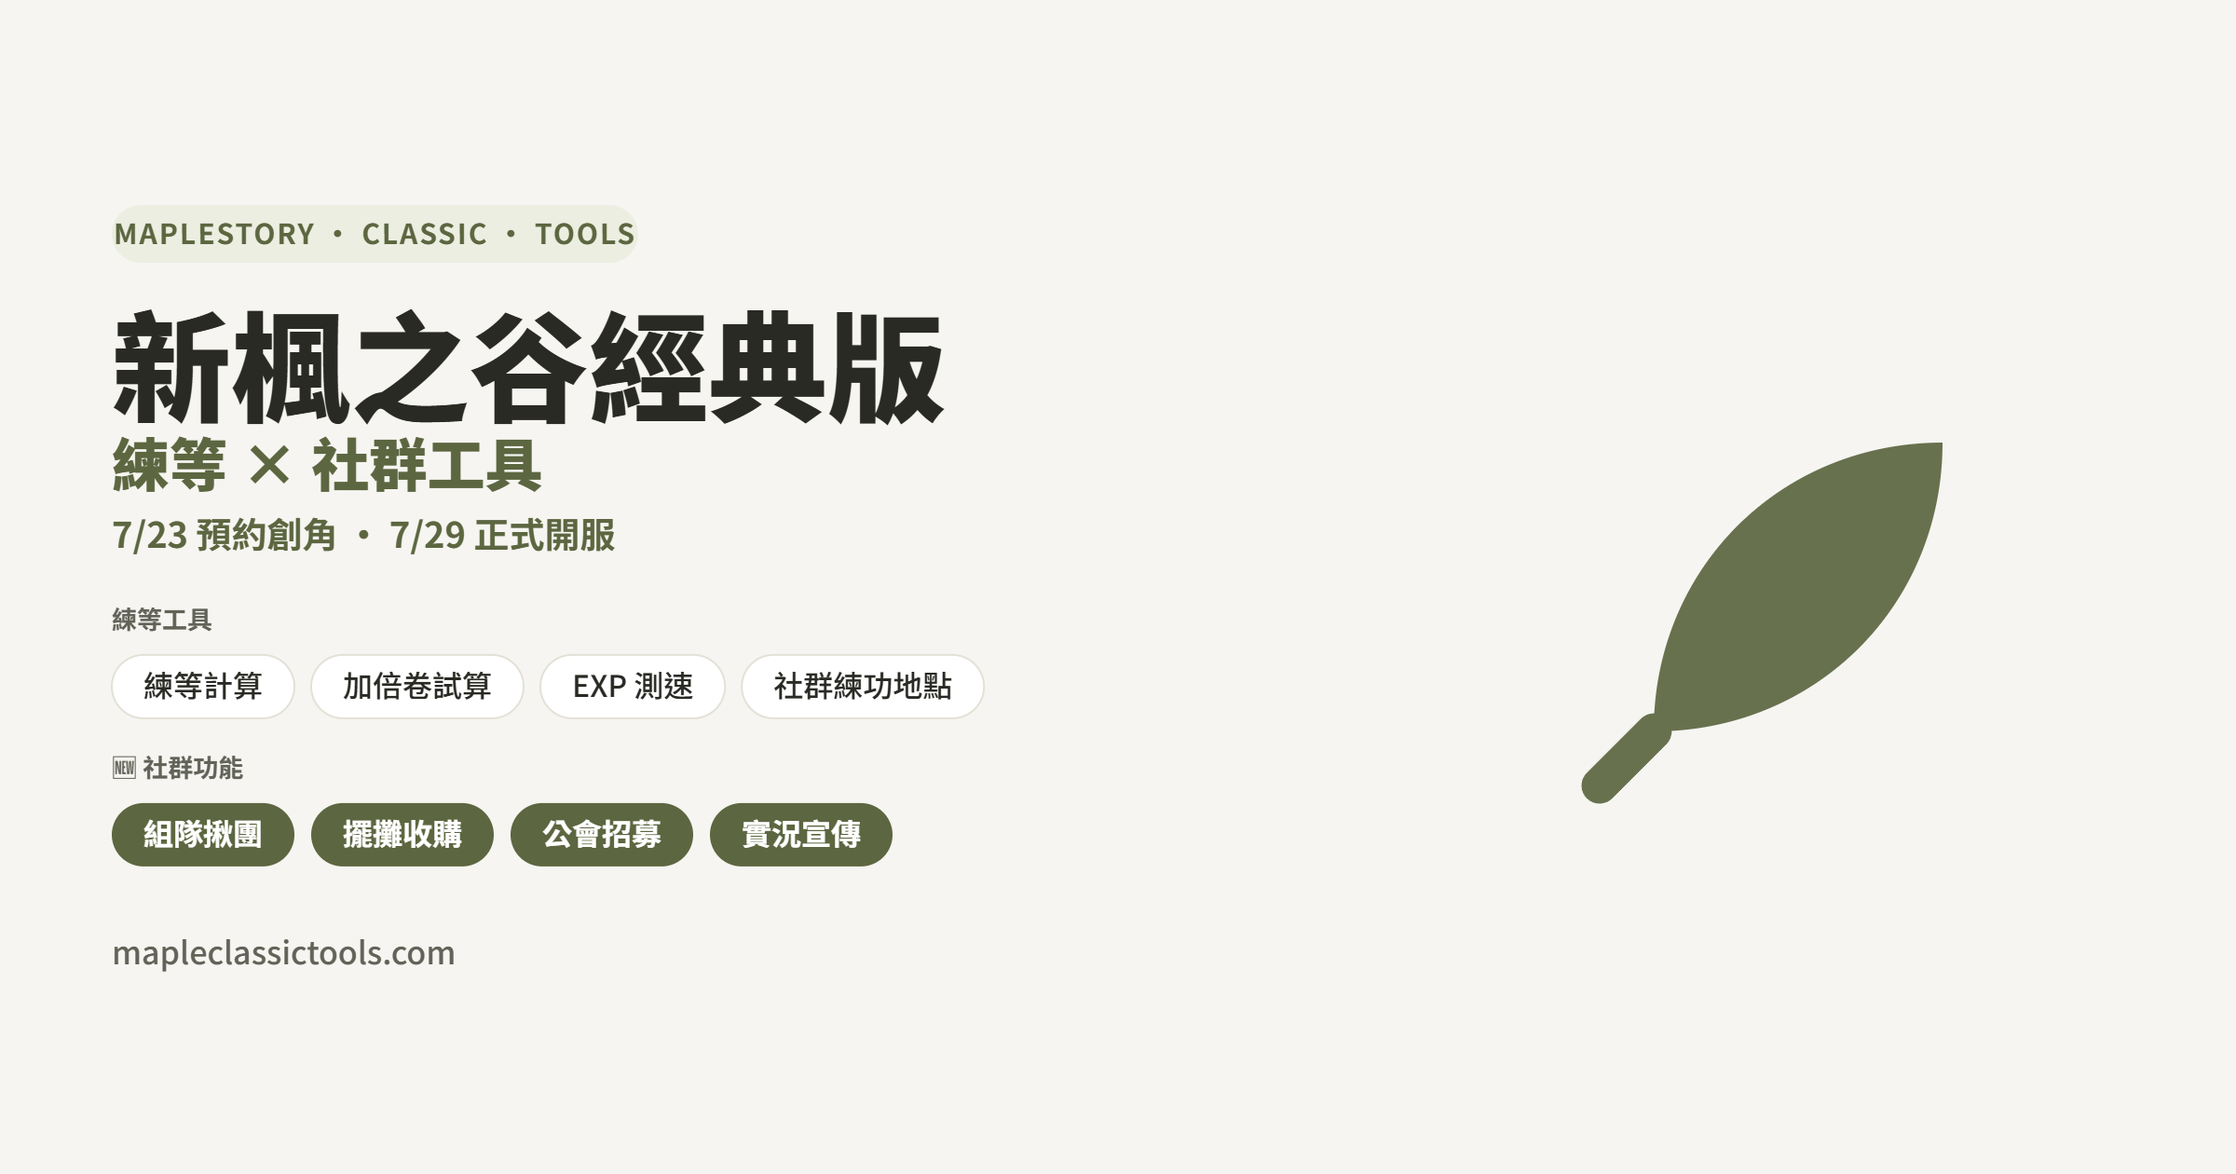
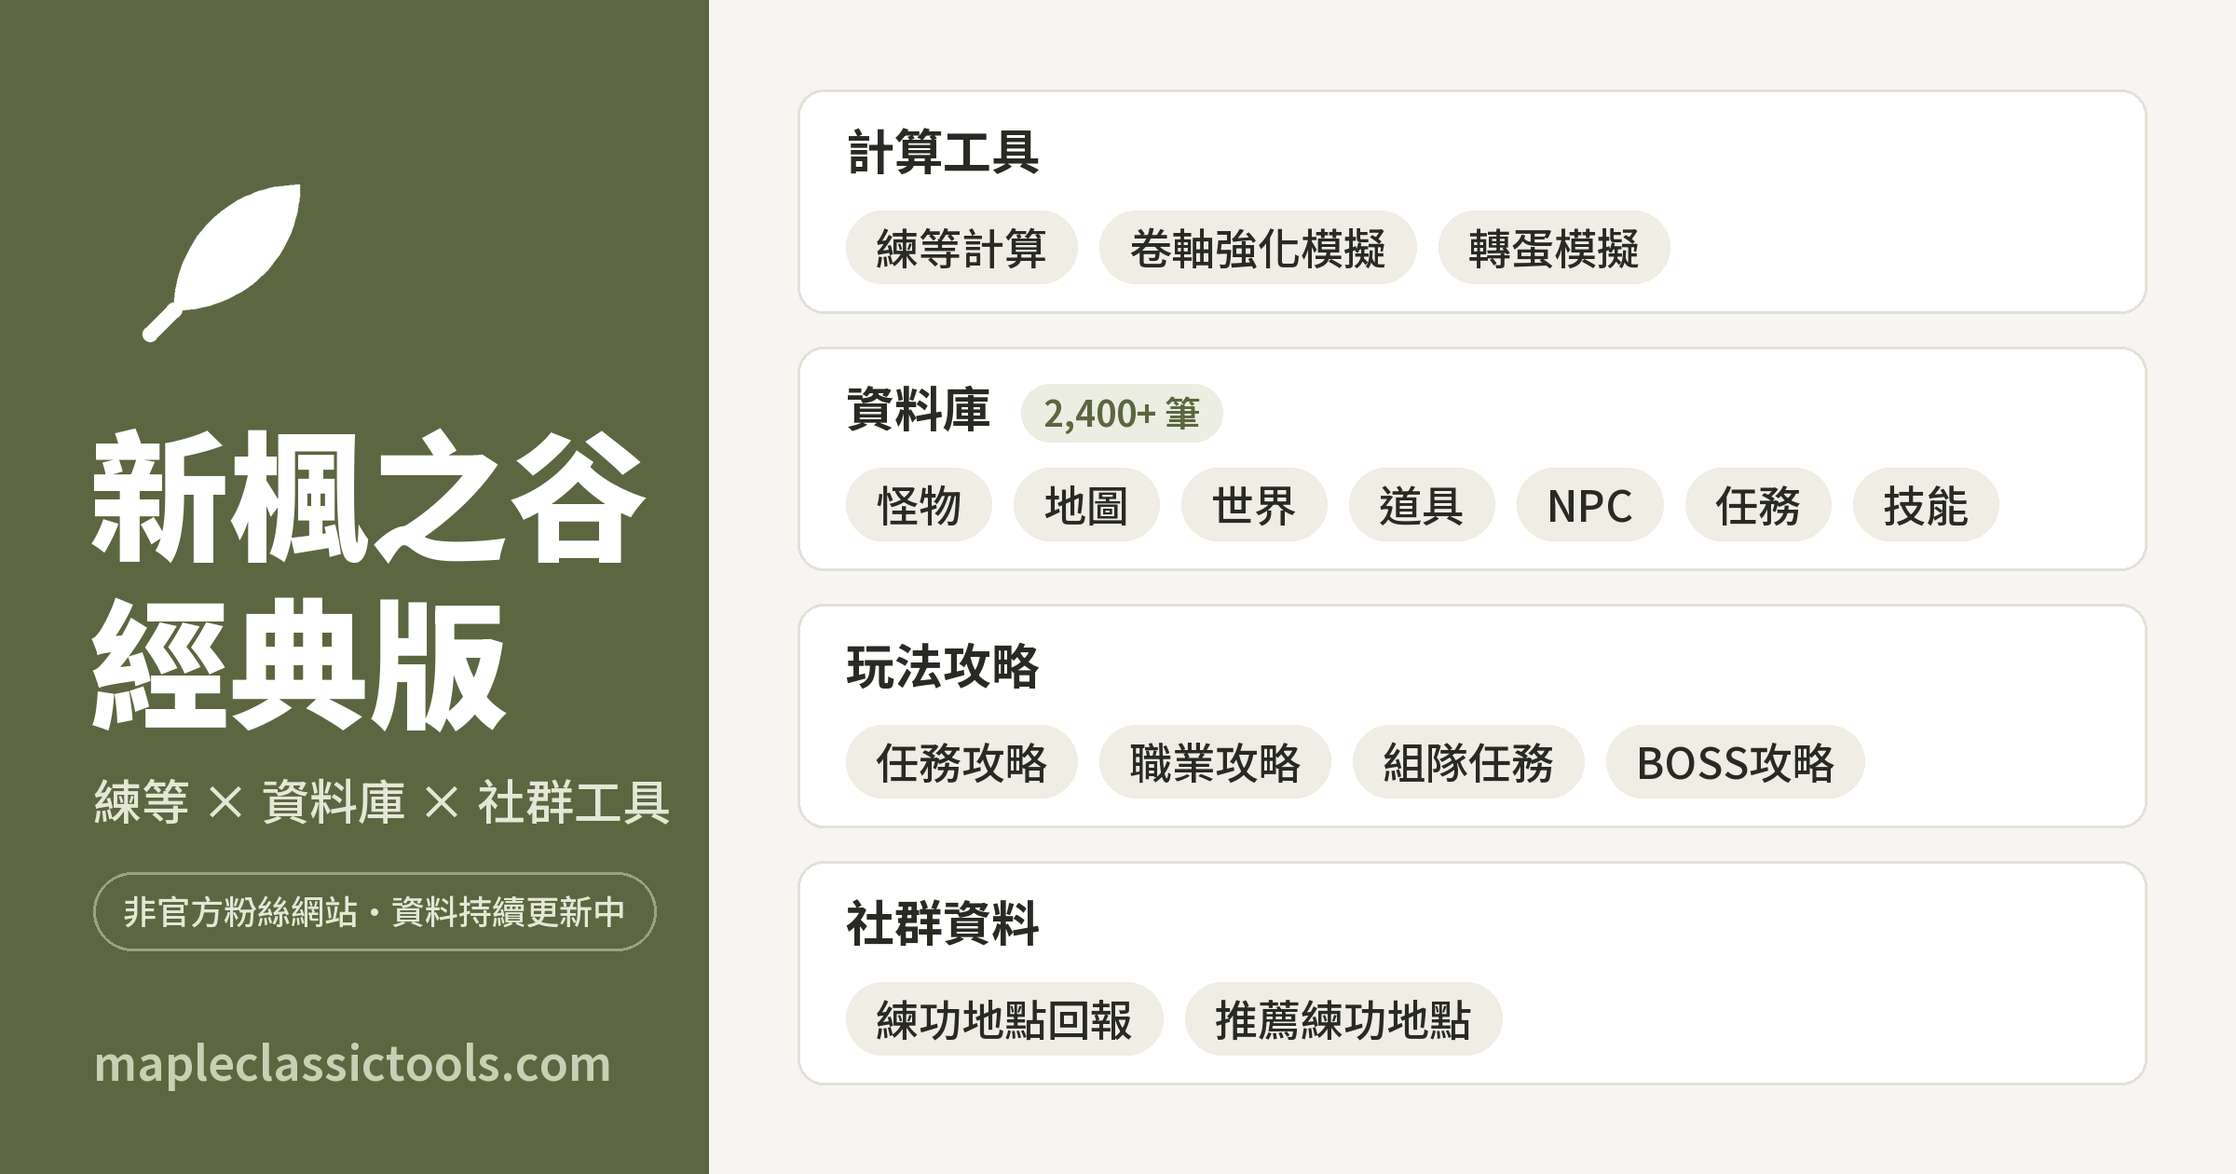
docs: OG 預覽圖全面重製，對齊改版後的網站樣貌
舊圖還在宣傳已移除的功能（EXP 測速、組隊揪團、擺攤收購、公會招募、實況
宣傳），日期也停在開服前的 7/23 預約創角。

新圖做成「現在網站的縮影」：左側橄欖綠側欄（logo＋站名＋網域）呼應改版後
的側邊欄版面，右側四張卡片對應側邊欄真實的四大分類，晶片內容與站上子分頁
一字不差；資料庫掛「2,400+ 筆」徽章（實算 2,437 筆）。過期的開服日期換成
與站上頂欄同一句的「非官方粉絲網站・資料持續更新中」，不會再過期。色票與
字型直接取自 style.css 與站上同一套 Noto Sans TC。

隱藏中的攻擊力計算不列。全站 12 個頁面的 og:image / twitter:image 版本號
?v=8 → ?v=9，讓社群平台重抓快取。產生腳本為 Pillow 繪製，之後要再改很快。

diff --git a/index.html b/index.html
@@ -23,7 +23,7 @@
 <meta property="og:site_name" content="新楓之谷經典版 練等 × 社群工具">
 <meta property="og:locale" content="zh_TW">
 <meta property="og:url" content="https://mapleclassictools.com/">
-<meta property="og:image" content="https://mapleclassictools.com/og-image.png?v=8">
+<meta property="og:image" content="https://mapleclassictools.com/og-image.png?v=9">
 <meta property="og:image:width" content="2400">
 <meta property="og:image:height" content="1260">
 <meta property="og:title" content="新楓之谷經典版｜練等 × 社群工具">
@@ -31,7 +31,7 @@
 <meta name="twitter:card" content="summary_large_image">
 <meta name="twitter:title" content="新楓之谷經典版｜練等 × 社群工具">
 <meta name="twitter:description" content="經典版已於 2026/07/29 正式上線！輸入目前等級，馬上知道升級還差多少經驗、大概要練多久。附加倍卷試算、計時器、社群練功地點資料庫。">
-<meta name="twitter:image" content="https://mapleclassictools.com/og-image.png?v=8">
+<meta name="twitter:image" content="https://mapleclassictools.com/og-image.png?v=9">
 <meta name="author" content="xyzzxc00">
 <meta name="keywords" content="新楓之谷經典版,練等計算機,楓之谷經典版,MapleStory Classic,經驗值計算,升級時間,加倍卷,練功地點,組隊任務,台版楓之谷經典服">
 <link rel="canonical" href="https://mapleclassictools.com/">

diff --git a/guides/job-selection-guide/index.html b/guides/job-selection-guide/index.html
@@ -22,7 +22,7 @@
 <meta property="og:site_name" content="新楓之谷經典版 練等 × 社群工具">
 <meta property="og:locale" content="zh_TW">
 <meta property="og:url" content="https://mapleclassictools.com/guides/job-selection-guide/">
-<meta property="og:image" content="https://mapleclassictools.com/og-image.png?v=8">
+<meta property="og:image" content="https://mapleclassictools.com/og-image.png?v=9">
 <meta property="og:image:width" content="2400">
 <meta property="og:image:height" content="1260">
 <meta property="og:title" content="新楓之谷經典版選職業指南：五大職業怎麼選？">
@@ -30,7 +30,7 @@
 <meta name="twitter:card" content="summary_large_image">
 <meta name="twitter:title" content="新楓之谷經典版選職業指南：五大職業怎麼選？">
 <meta name="twitter:description" content="從戰鬥距離、前期容錯率、上手難度、團隊定位幫你抓方向，附五大職業比較表與常見情境對照。">
-<meta name="twitter:image" content="https://mapleclassictools.com/og-image.png?v=8">
+<meta name="twitter:image" content="https://mapleclassictools.com/og-image.png?v=9">
 <meta name="author" content="xyzzxc00">
 <meta name="keywords" content="新楓之谷經典版,選職業,職業推薦,劍士系,法師系,弓箭手系,盜賊系,海盜系,新手攻略,MapleStory Classic">
 <link rel="canonical" href="https://mapleclassictools.com/guides/job-selection-guide/">

diff --git a/guides/coupon-stacking-guide/index.html b/guides/coupon-stacking-guide/index.html
@@ -22,7 +22,7 @@
 <meta property="og:site_name" content="新楓之谷經典版 練等 × 社群工具">
 <meta property="og:locale" content="zh_TW">
 <meta property="og:url" content="https://mapleclassictools.com/guides/coupon-stacking-guide/">
-<meta property="og:image" content="https://mapleclassictools.com/og-image.png?v=8">
+<meta property="og:image" content="https://mapleclassictools.com/og-image.png?v=9">
 <meta property="og:image:width" content="2400">
 <meta property="og:image:height" content="1260">
 <meta property="og:title" content="加倍卷怎麼算最划算？新楓之谷經典版加倍卷解析">
@@ -30,7 +30,7 @@
 <meta name="twitter:card" content="summary_large_image">
 <meta name="twitter:title" content="加倍卷怎麼算最划算？新楓之谷經典版加倍卷解析">
 <meta name="twitter:description" content="多張同款卷是不是能疊更高倍率？加倍卷跟其他加成一起用該填多少進計算機？常見誤解跟計算邏輯一次講清楚。">
-<meta name="twitter:image" content="https://mapleclassictools.com/og-image.png?v=8">
+<meta name="twitter:image" content="https://mapleclassictools.com/og-image.png?v=9">
 <meta name="author" content="xyzzxc00">
 <meta name="keywords" content="新楓之谷經典版,加倍卷,經驗加成,倍率計算,練等計算機,MapleStory Classic">
 <link rel="canonical" href="https://mapleclassictools.com/guides/coupon-stacking-guide/">

diff --git a/guides/launch-leveling-guide/index.html b/guides/launch-leveling-guide/index.html
@@ -22,7 +22,7 @@
 <meta property="og:site_name" content="新楓之谷經典版 練等 × 社群工具">
 <meta property="og:locale" content="zh_TW">
 <meta property="og:url" content="https://mapleclassictools.com/guides/launch-leveling-guide/">
-<meta property="og:image" content="https://mapleclassictools.com/og-image.png?v=8">
+<meta property="og:image" content="https://mapleclassictools.com/og-image.png?v=9">
 <meta property="og:image:width" content="2400">
 <meta property="og:image:height" content="1260">
 <meta property="og:title" content="開服第一天怎麼練？新楓之谷經典版 Lv.1~30 練功路線">
@@ -30,7 +30,7 @@
 <meta name="twitter:card" content="summary_large_image">
 <meta name="twitter:title" content="開服第一天怎麼練？新楓之谷經典版 Lv.1~30 練功路線">
 <meta name="twitter:description" content="楓之島別急著出、一轉時機、Lv.10~30 經典練功點，加上開服日最重要的人潮應對思路。">
-<meta name="twitter:image" content="https://mapleclassictools.com/og-image.png?v=8">
+<meta name="twitter:image" content="https://mapleclassictools.com/og-image.png?v=9">
 <meta name="author" content="xyzzxc00">
 <meta name="keywords" content="新楓之谷經典版,開服攻略,練功路線,Lv.1~30,新手攻略,練等,楓之島,MapleStory Classic">
 <link rel="canonical" href="https://mapleclassictools.com/guides/launch-leveling-guide/">

diff --git a/guides/job-advancement-guide/index.html b/guides/job-advancement-guide/index.html
@@ -22,7 +22,7 @@
 <meta property="og:site_name" content="新楓之谷經典版 練等 × 社群工具">
 <meta property="og:locale" content="zh_TW">
 <meta property="og:url" content="https://mapleclassictools.com/guides/job-advancement-guide/">
-<meta property="og:image" content="https://mapleclassictools.com/og-image.png?v=8">
+<meta property="og:image" content="https://mapleclassictools.com/og-image.png?v=9">
 <meta property="og:image:width" content="2400">
 <meta property="og:image:height" content="1260">
 <meta property="og:title" content="新楓之谷經典版完整轉職路線攻略：一轉~四轉怎麼轉職">
@@ -30,7 +30,7 @@
 <meta name="twitter:card" content="summary_large_image">
 <meta name="twitter:title" content="新楓之谷經典版完整轉職路線攻略：一轉~四轉怎麼轉職">
 <meta name="twitter:description" content="五大職業一轉到四轉的完整任務流程：等級需求、NPC、地點、任務步驟一次整理。">
-<meta name="twitter:image" content="https://mapleclassictools.com/og-image.png?v=8">
+<meta name="twitter:image" content="https://mapleclassictools.com/og-image.png?v=9">
 <meta name="author" content="xyzzxc00">
 <meta name="keywords" content="新楓之谷經典版,轉職,一轉,二轉,三轉,四轉,轉職任務,pre-Big Bang,MapleStory Classic">
 <link rel="canonical" href="https://mapleclassictools.com/guides/job-advancement-guide/">

diff --git a/guides/scroll-expected-value-guide/index.html b/guides/scroll-expected-value-guide/index.html
@@ -22,7 +22,7 @@
 <meta property="og:site_name" content="新楓之谷經典版 練等 × 社群工具">
 <meta property="og:locale" content="zh_TW">
 <meta property="og:url" content="https://mapleclassictools.com/guides/scroll-expected-value-guide/">
-<meta property="og:image" content="https://mapleclassictools.com/og-image.png?v=8">
+<meta property="og:image" content="https://mapleclassictools.com/og-image.png?v=9">
 <meta property="og:image:width" content="2400">
 <meta property="og:image:height" content="1260">
 <meta property="og:title" content="卷軸強化期望值怎麼算？新楓之谷經典版卷軸解析">
@@ -30,7 +30,7 @@
 <meta name="twitter:card" content="summary_large_image">
 <meta name="twitter:title" content="卷軸強化期望值怎麼算？新楓之谷經典版卷軸解析">
 <meta name="twitter:description" content="為什麼提早放棄報廢裝備反而更省錢？用實際數字拆解卷軸強化的期望值計算邏輯。">
-<meta name="twitter:image" content="https://mapleclassictools.com/og-image.png?v=8">
+<meta name="twitter:image" content="https://mapleclassictools.com/og-image.png?v=9">
 <meta name="author" content="xyzzxc00">
 <meta name="keywords" content="新楓之谷經典版,卷軸強化,期望值,卷軸機率,強化模擬,MapleStory Classic">
 <link rel="canonical" href="https://mapleclassictools.com/guides/scroll-expected-value-guide/">

diff --git a/guides/legacy-bosses/index.html b/guides/legacy-bosses/index.html
@@ -22,7 +22,7 @@
 <meta property="og:site_name" content="新楓之谷經典版 練等 × 社群工具">
 <meta property="og:locale" content="zh_TW">
 <meta property="og:url" content="https://mapleclassictools.com/guides/legacy-bosses/">
-<meta property="og:image" content="https://mapleclassictools.com/og-image.png?v=8">
+<meta property="og:image" content="https://mapleclassictools.com/og-image.png?v=9">
 <meta property="og:image:width" content="2400">
 <meta property="og:image:height" content="1260">
 <meta property="og:title" content="新楓之谷經典版野王資料與前置任務攻略">
@@ -30,7 +30,7 @@
 <meta name="twitter:card" content="summary_large_image">
 <meta name="twitter:title" content="新楓之谷經典版野王資料與前置任務攻略">
 <meta name="twitter:description" content="27隻野王的等級、地點、重生時間，以及殘暴炎魔、闇黑龍王、拉圖斯的前置任務完整步驟。">
-<meta name="twitter:image" content="https://mapleclassictools.com/og-image.png?v=8">
+<meta name="twitter:image" content="https://mapleclassictools.com/og-image.png?v=9">
 <meta name="author" content="xyzzxc00">
 <meta name="keywords" content="新楓之谷經典版,野王,重生時間,殘暴炎魔,闇黑龍王,拉圖斯,前置任務,pre-Big Bang,MapleStory Classic">
 <link rel="canonical" href="https://mapleclassictools.com/guides/legacy-bosses/">

diff --git a/guides/exp-curve-guide/index.html b/guides/exp-curve-guide/index.html
@@ -22,7 +22,7 @@
 <meta property="og:site_name" content="新楓之谷經典版 練等 × 社群工具">
 <meta property="og:locale" content="zh_TW">
 <meta property="og:url" content="https://mapleclassictools.com/guides/exp-curve-guide/">
-<meta property="og:image" content="https://mapleclassictools.com/og-image.png?v=8">
+<meta property="og:image" content="https://mapleclassictools.com/og-image.png?v=9">
 <meta property="og:image:width" content="2400">
 <meta property="og:image:height" content="1260">
 <meta property="og:title" content="經驗值表為什麼後期這麼陡？新楓之谷經典版">
@@ -30,7 +30,7 @@
 <meta name="twitter:card" content="summary_large_image">
 <meta name="twitter:title" content="經驗值表為什麼後期這麼陡？新楓之谷經典版">
 <meta name="twitter:description" content="Lv.199 升 200 要 20 億經驗值，用實際數字拆解 50 級後每級穩定成長 5.5% 的複利效果。">
-<meta name="twitter:image" content="https://mapleclassictools.com/og-image.png?v=8">
+<meta name="twitter:image" content="https://mapleclassictools.com/og-image.png?v=9">
 <meta name="author" content="xyzzxc00">
 <meta name="keywords" content="新楓之谷經典版,經驗值表,經驗曲線,pre-Big Bang,升級所需經驗,MapleStory Classic">
 <link rel="canonical" href="https://mapleclassictools.com/guides/exp-curve-guide/">

diff --git a/guides/exp-table/index.html b/guides/exp-table/index.html
@@ -22,7 +22,7 @@
 <meta property="og:site_name" content="新楓之谷經典版 練等 × 社群工具">
 <meta property="og:locale" content="zh_TW">
 <meta property="og:url" content="https://mapleclassictools.com/guides/exp-table/">
-<meta property="og:image" content="https://mapleclassictools.com/og-image.png?v=8">
+<meta property="og:image" content="https://mapleclassictools.com/og-image.png?v=9">
 <meta property="og:image:width" content="2400">
 <meta property="og:image:height" content="1260">
 <meta property="og:title" content="新楓之谷經典版經驗值表 Lv.1~200 完整版">
@@ -30,7 +30,7 @@
 <meta name="twitter:card" content="summary_large_image">
 <meta name="twitter:title" content="新楓之谷經典版經驗值表 Lv.1~200 完整版">
 <meta name="twitter:description" content="每一級升級所需經驗與累積總量一次查，練到滿等共需約 387 億 EXP。">
-<meta name="twitter:image" content="https://mapleclassictools.com/og-image.png?v=8">
+<meta name="twitter:image" content="https://mapleclassictools.com/og-image.png?v=9">
 <meta name="author" content="xyzzxc00">
 <meta name="keywords" content="新楓之谷經典版,經驗值表,升級經驗,Lv.1~200,累積經驗,pre-Big Bang,MapleStory Classic">
 <link rel="canonical" href="https://mapleclassictools.com/guides/exp-table/">

diff --git a/guides/legacy-leveling-spots/index.html b/guides/legacy-leveling-spots/index.html
@@ -22,7 +22,7 @@
 <meta property="og:site_name" content="新楓之谷經典版 練等 × 社群工具">
 <meta property="og:locale" content="zh_TW">
 <meta property="og:url" content="https://mapleclassictools.com/guides/legacy-leveling-spots/">
-<meta property="og:image" content="https://mapleclassictools.com/og-image.png?v=8">
+<meta property="og:image" content="https://mapleclassictools.com/og-image.png?v=9">
 <meta property="og:image:width" content="2400">
 <meta property="og:image:height" content="1260">
 <meta property="og:title" content="新楓之谷經典版舊版練功地點大全 Lv.1~113">
@@ -30,7 +30,7 @@
 <meta name="twitter:card" content="summary_large_image">
 <meta name="twitter:title" content="新楓之谷經典版舊版練功地點大全 Lv.1~113">
 <meta name="twitter:description" content="各等級區間的怪物與可打地圖對照表，共 67 筆整理。">
-<meta name="twitter:image" content="https://mapleclassictools.com/og-image.png?v=8">
+<meta name="twitter:image" content="https://mapleclassictools.com/og-image.png?v=9">
 <meta name="author" content="xyzzxc00">
 <meta name="keywords" content="新楓之谷經典版,練功地點,怪物分布,pre-Big Bang,練等地圖,MapleStory Classic">
 <link rel="canonical" href="https://mapleclassictools.com/guides/legacy-leveling-spots/">

diff --git a/privacy/index.html b/privacy/index.html
@@ -22,7 +22,7 @@
 <meta property="og:site_name" content="新楓之谷經典版 練等 × 社群工具">
 <meta property="og:locale" content="zh_TW">
 <meta property="og:url" content="https://mapleclassictools.com/privacy/">
-<meta property="og:image" content="https://mapleclassictools.com/og-image.png?v=8">
+<meta property="og:image" content="https://mapleclassictools.com/og-image.png?v=9">
 <meta property="og:image:width" content="2400">
 <meta property="og:image:height" content="1260">
 <meta property="og:title" content="隱私政策｜新楓之谷經典版 練等 × 社群工具">
@@ -30,7 +30,7 @@
 <meta name="twitter:card" content="summary_large_image">
 <meta name="twitter:title" content="隱私政策｜新楓之谷經典版 練等 × 社群工具">
 <meta name="twitter:description" content="說明本站如何使用 Google Analytics、社群回報資料，以及 reCAPTCHA 保護機制。">
-<meta name="twitter:image" content="https://mapleclassictools.com/og-image.png?v=8">
+<meta name="twitter:image" content="https://mapleclassictools.com/og-image.png?v=9">
 <meta name="author" content="xyzzxc00">
 <meta name="robots" content="noindex, follow">
 <link rel="canonical" href="https://mapleclassictools.com/privacy/">

diff --git a/guides/index.html b/guides/index.html
@@ -22,7 +22,7 @@
 <meta property="og:site_name" content="新楓之谷經典版 練等 × 社群工具">
 <meta property="og:locale" content="zh_TW">
 <meta property="og:url" content="https://mapleclassictools.com/guides/">
-<meta property="og:image" content="https://mapleclassictools.com/og-image.png?v=8">
+<meta property="og:image" content="https://mapleclassictools.com/og-image.png?v=9">
 <meta property="og:image:width" content="2400">
 <meta property="og:image:height" content="1260">
 <meta property="og:title" content="攻略文章｜新楓之谷經典版 練等 × 社群工具">
@@ -30,7 +30,7 @@
 <meta name="twitter:card" content="summary_large_image">
 <meta name="twitter:title" content="攻略文章｜新楓之谷經典版 練等 × 社群工具">
 <meta name="twitter:description" content="職業選擇、加倍卷數學、卷軸強化期望值等機制解說，搭配練等計算機一起服用。">
-<meta name="twitter:image" content="https://mapleclassictools.com/og-image.png?v=8">
+<meta name="twitter:image" content="https://mapleclassictools.com/og-image.png?v=9">
 <meta name="author" content="xyzzxc00">
 <link rel="canonical" href="https://mapleclassictools.com/guides/">
 <script type="application/ld+json">
